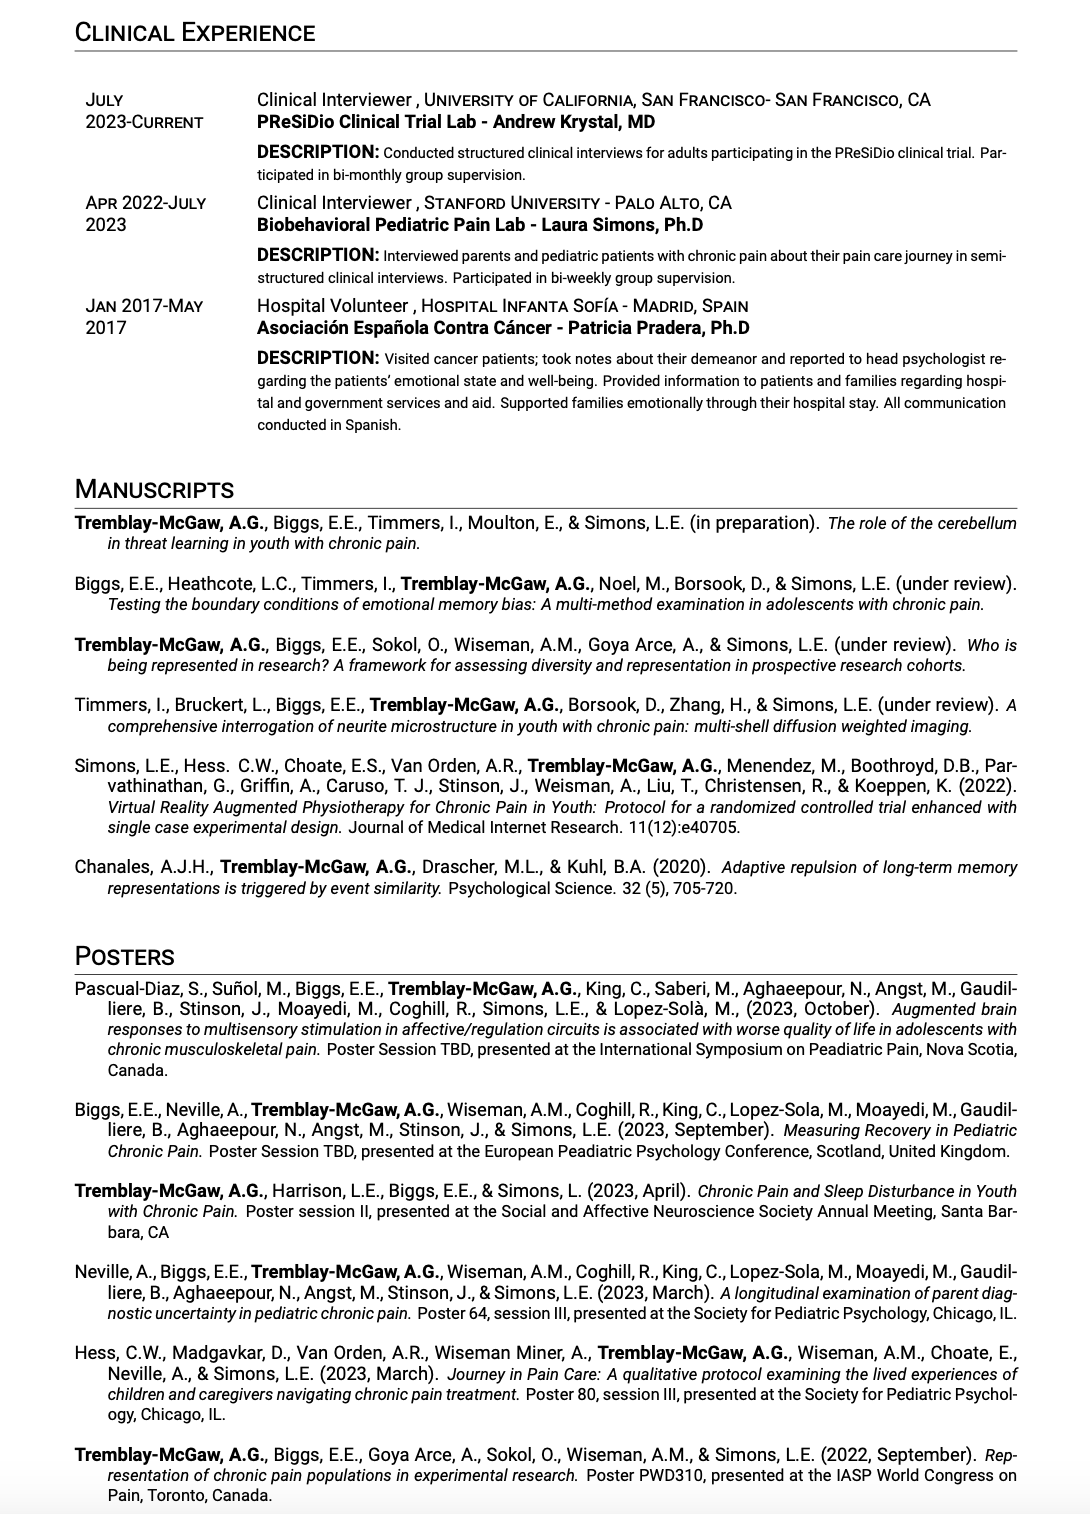
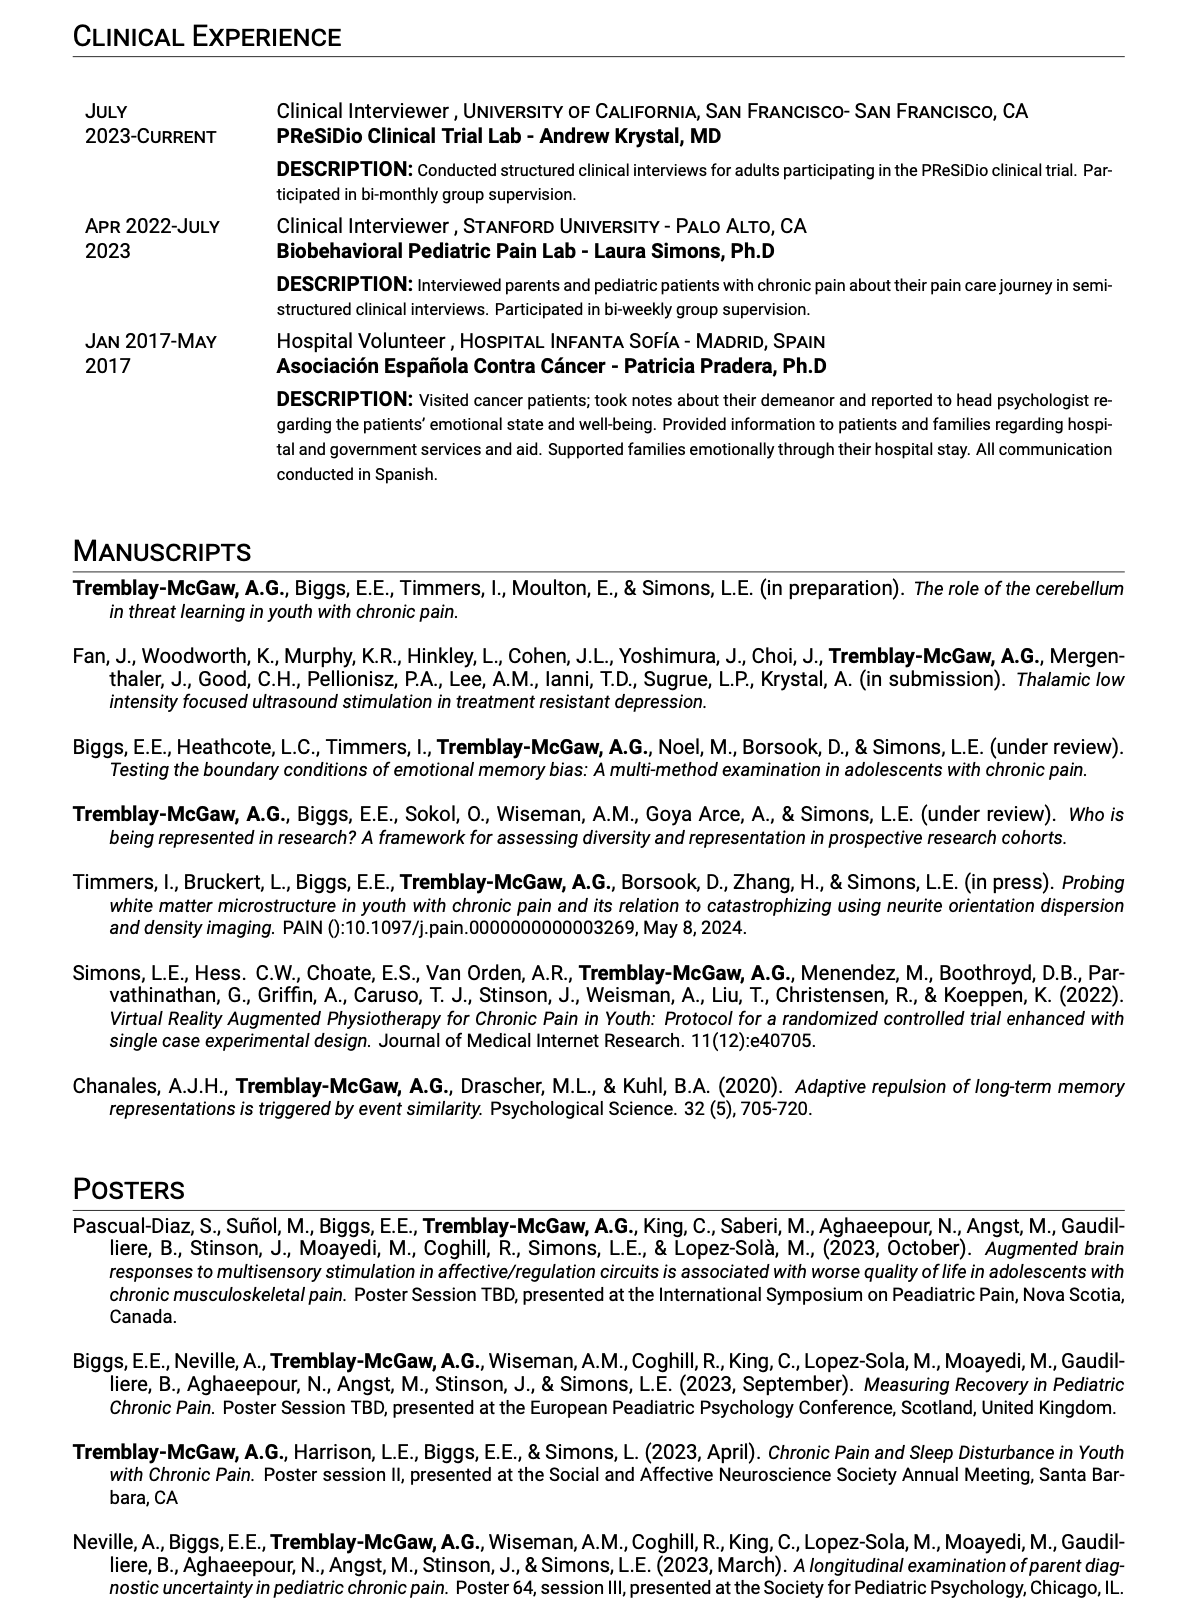
UPDATE

diff --git a/Publications.html b/Publications.html
@@ -274,6 +274,10 @@ $(document).ready(function () {
 
 
 <hr />
+<p>Fan, J., Woodworth, K., Murphy, K.R., Hinkley, L., Cohen, J.L., Yoshimura, J., Choi, J., <strong>Tremblay-McGaw, A.G.</strong>, Mergenthaler, J., Good, C.H., Pellionisz, P.A., Lee, A.M., Ianni, T.D., Sugrue, L.P., Krystal, A. (in submission). Thalamic low intensity focused ultrasound stimulation in treatment resistant depression.</p>
+<p><strong>Abstract</strong></p>
+<p><em>Coming soon!</em></p>
+<hr />
 <p><strong>Tremblay-McGaw, A.G.</strong>, Biggs, E.E., Timmers, I., Moulton, E., &amp; Simons, L.E., (in preparation). The role of the cerebellum in threat learning in youth with chronic pain.</p>
 <p><strong>Abstract</strong></p>
 <p><em>Coming soon!</em></p>
@@ -286,7 +290,7 @@ $(document).ready(function () {
 <p><strong>Abstract</strong></p>
 <p>While there are an increasing number of steps being taken to address a lack of representation in research populations, the data needed to facilitate these steps, and fully evaluate current research, is still lacking. In this paper we propose a framework that allows researchers to engage with this process in a small-scale and inexpensive way, by reporting population level characteristics alongside standard participant descriptors. As an example, we examined differences between adolescents with chronic pain who decided to enroll in a large biomarker study and those who were eligible but decided not to enroll. Here, we focused on demographics, pain characteristics, mental health, functioning, and caregiver profiles. We propose that by engaging in such checkpoints, readers can better assess the generalizability of findings, and we can begin to address discrepancies and barriers in research.</p>
 <hr />
-<p>Timmers, I., Bruckert, L., Biggs, E.E., <strong>Tremblay-McGaw, A.G.</strong>, Borsook, D., Zhang, H., &amp; Simons, L.E. (2022). Probing white matter microstructure in youth with chronic pain and its relation to catastrophizing using neurite orientation dispersion and density imaging. PAIN ():10.1097/j.pain.0000000000003269, May 8, 2024.</p>
+<p>Timmers, I., Bruckert, L., Biggs, E.E., <strong>Tremblay-McGaw, A.G.</strong>, Borsook, D., Zhang, H., &amp; Simons, L.E. (2024). Probing white matter microstructure in youth with chronic pain and its relation to catastrophizing using neurite orientation dispersion and density imaging. PAIN ():10.1097/j.pain.0000000000003269, May 8, 2024.</p>
 <p><strong>Abstract</strong></p>
 <p>Chronic pain is common in young people and can have a major life impact. Despite the burden of chronic pain, mechanisms underlying chronic pain development and persistence are still poorly understood. Specifically, white matter (WM) connectivity has remained largely unexplored in pediatric chronic pain. Using diffusion-weighted imaging, this study examined WM microstructure in adolescents (age M = 15.8 years, SD = 2.8 years) with chronic pain (n = 44) compared with healthy controls (n = 24). Neurite orientation dispersion and density imaging modeling was applied, and voxel-based whole-white-matter analyses were used to obtain an overview of potential alterations in youth with chronic pain and tract-specific profile analyses to evaluate microstructural profiles of tracts of interest more closely. Our main findings are that (1) youth with chronic pain showed widespread elevated orientation dispersion compared with controls in several tracts, indicative of less coherence; (2) signs of neurite density tract-profile alterations were observed in several tracts of interest, with mainly higher density levels in patients; and (3) several WM microstructural alterations were associated with pain catastrophizing in the patient group. Implicated tracts include both those connecting cortical and limbic structures (uncinate fasciculus, cingulum, anterior thalamic radiation), which were associated with pain catastrophizing, as well as sensorimotor tracts (corticospinal tract). By identifying alterations in the biologically informative WM microstructural metrics orientation dispersion and neurite density, our findings provide important and novel mechanistic insights for understanding the pathophysiology underlying chronic pain. Taken together, the data support alterations in fiber organization as a meaningful characteristic, contributing process to the chronic pain state.</p>
 <hr />

diff --git a/Gallery.html b/Gallery.html
@@ -504,13 +504,6 @@ $(document).ready(function () {
 <p><img src="imgs/98.jpeg" /></p>
 <hr />
 </div>
-<div id="public-house-2019---springfield-or" class="section level3">
-<h3>Public House 2019 - Springfield, OR</h3>
-<p><img src="imgs/116.jpg" /></p>
-<p><img src="imgs/117.jpg" /></p>
-<p><img src="imgs/118.jpg" /></p>
-<hr />
-</div>
 <div id="cognitive-neuroscience-society-conference-2019---san-francisco-ca" class="section level3">
 <h3>Cognitive Neuroscience Society Conference 2019 - San Francisco, CA</h3>
 <p><img src="imgs/2.jpg" /></p>
@@ -521,11 +514,20 @@ $(document).ready(function () {
 <p><img src="imgs/99.jpeg" /></p>
 <hr />
 </div>
+<div id="public-house-2018---springfield-or" class="section level3">
+<h3>Public House 2018 - Springfield, OR</h3>
+<p><img src="imgs/116.jpg" /></p>
+<p><img src="imgs/117.jpg" /></p>
+<p><img src="imgs/118.jpg" /></p>
+<hr />
+</div>
 <div id="society-for-neuroscience-conference-2018---san-diego-ca" class="section level3">
 <h3>Society for Neuroscience Conference 2018 - San Diego, CA</h3>
 <p><img src="imgs/5.jpeg" /></p>
-<p><img src="imgs/6.jpeg" /> <img src="imgs/115.jpg" /></p>
-<p><img src="imgs/113.jpg" /> <img src="imgs/114.jpg" /></p>
+<p><img src="imgs/6.jpeg" /></p>
+<p><img src="imgs/115.jpg" /></p>
+<p><img src="imgs/113.jpg" /></p>
+<p><img src="imgs/114.jpg" /></p>
 <hr />
 </div>
 <div id="psychonomics-conference-2018---new-orleans-la" class="section level3">
@@ -537,6 +539,13 @@ $(document).ready(function () {
 <div id="cooking-throughout-the-years---oregon-and-california" class="section level3">
 <h3>Cooking Throughout the Years - Oregon and California</h3>
 <p><img src="imgs/66.jpeg" /></p>
+<p><img src="imgs/126.jpeg" /></p>
+<p><img src="imgs/121.jpeg" /></p>
+<p><img src="imgs/124.jpeg" /></p>
+<p><img src="imgs/122.jpeg" /></p>
+<p><img src="imgs/123.jpeg" /></p>
+<p><img src="imgs/120.jpeg" /></p>
+<p><img src="imgs/125.jpeg" /></p>
 <p><img src="imgs/61.jpeg" /></p>
 <p><img src="imgs/62.jpeg" /></p>
 <p><img src="imgs/63.jpeg" /></p>
